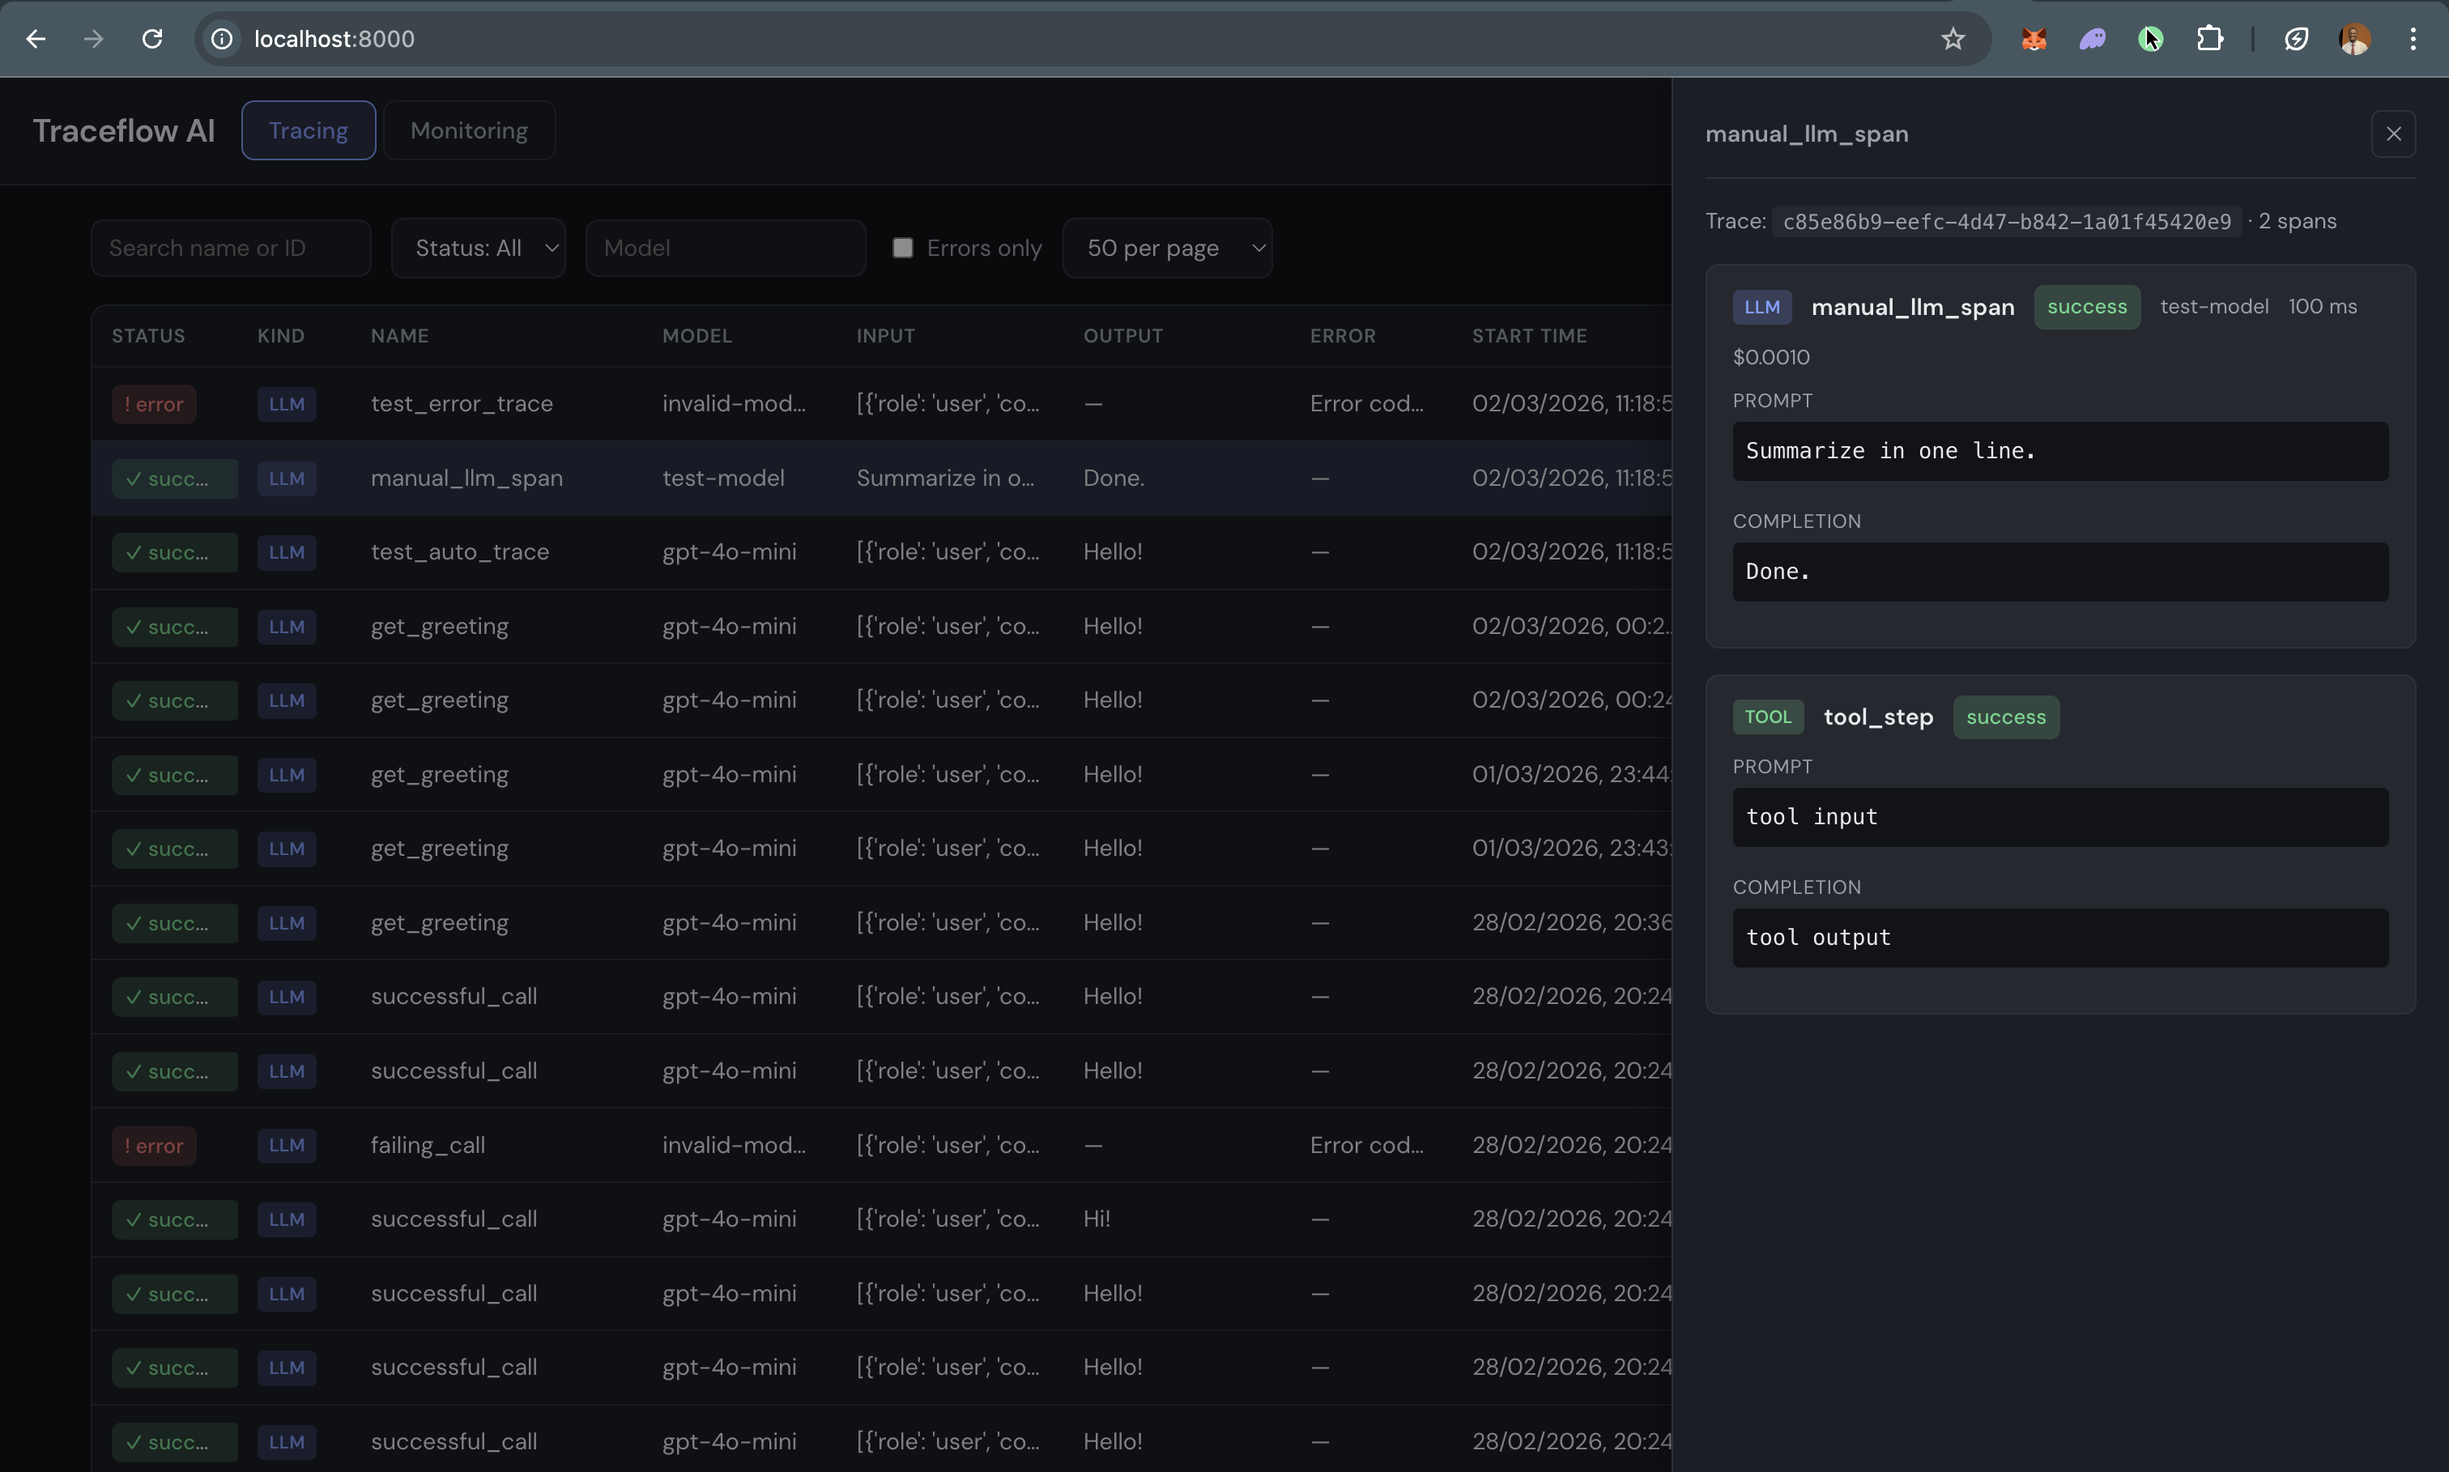
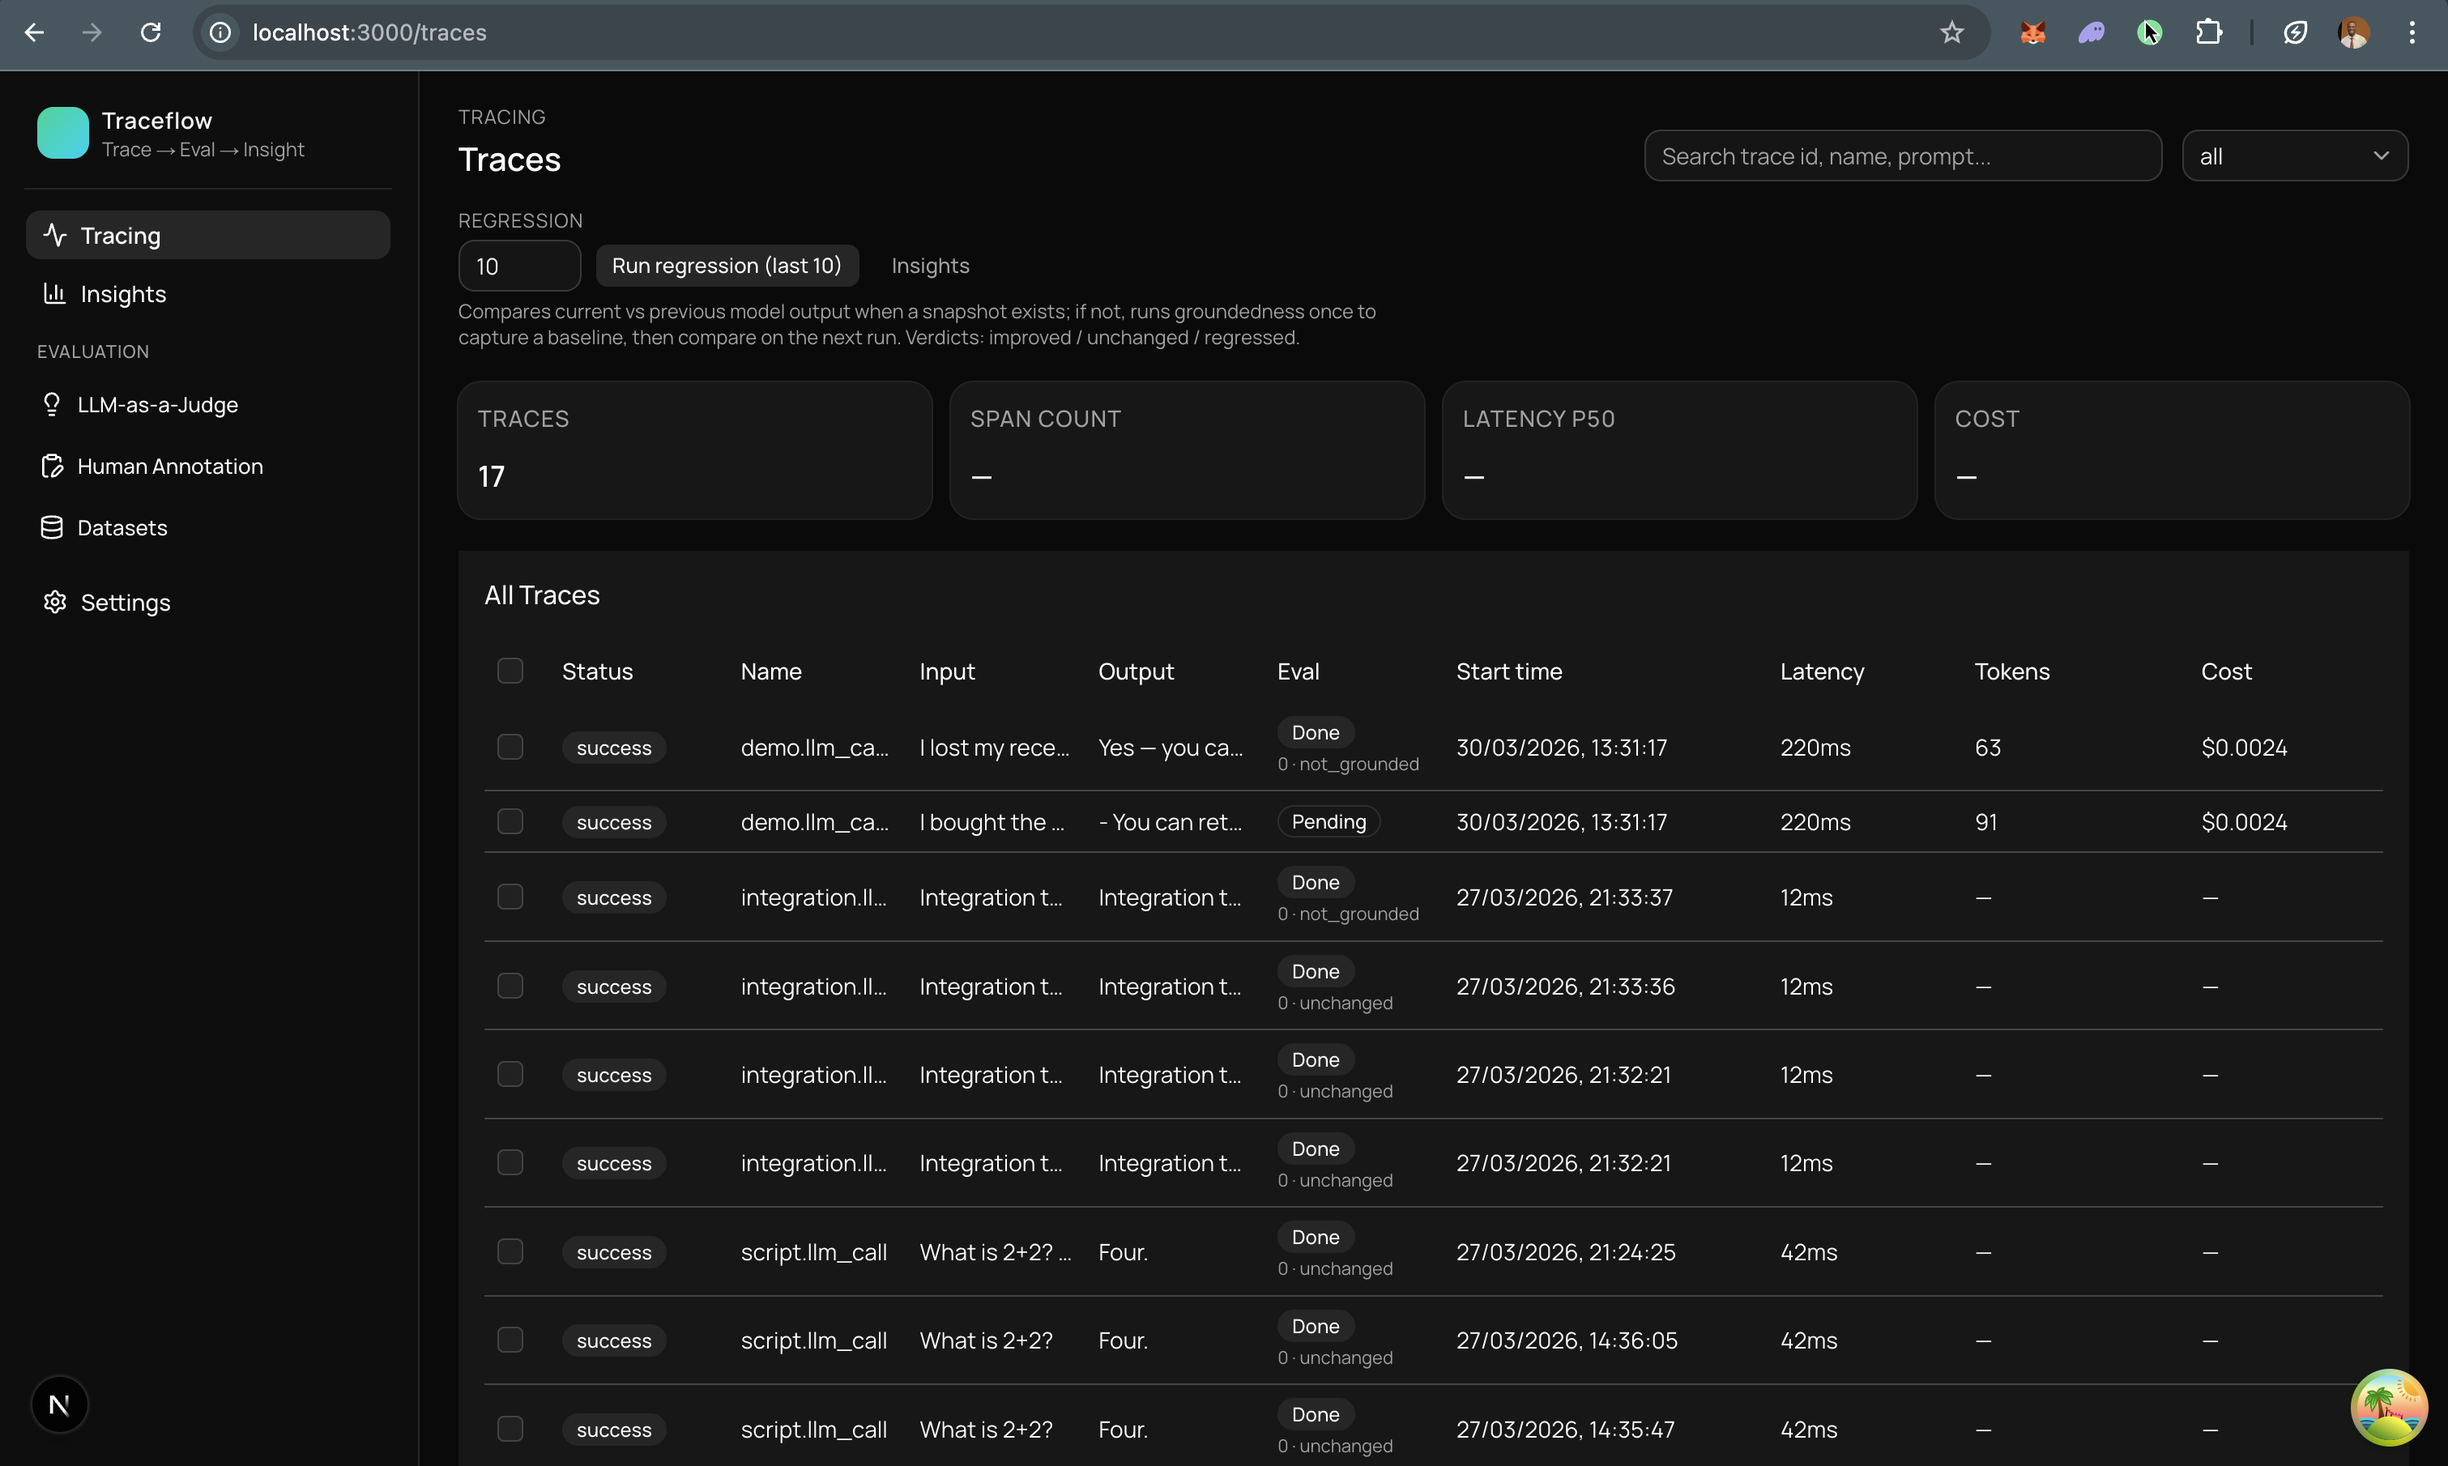
cleaned up readme & added setup guide

diff --git a/README.md b/README.md
@@ -8,14 +8,32 @@
 </p>
 
 <p align="center">
-  AI observability: trace your LLM calls and view them in a dashboard. Built for local and Docker use, with SQLite so you can run everything without a separate database.
+  AI observability + evals: ingest OTLP traces for LLM calls, run LLM-as-a-judge evaluations, and ship a regression workflow that answers “did we get better or worse?” across recent traces.
 </p>
 
 ---
 
-- **SDK** — Instrument your app with one line; captures prompt, completion, tokens, cost, latency, and caller name. Sends traces to your dashboard.
-- **Dashboard** — Trace table (resizable columns, filters), monitoring charts (count, cost, error rate, latency), and a detail panel per trace.
-- **Local-first** — No ClickHouse or Postgres required. SQLite + optional Docker.
+## What this repo is
+
+Traceflow is a local-first stack for **LLM tracing and quality**:
+
+- **Trace ingest (OTLP/HTTP)**: send OpenTelemetry traces for LLM calls (prompt, completion, latency, tokens, cost, status).
+- **Dashboard (Next.js)**: browse traces/spans, inspect inputs/outputs/context, track spend, and run evals from the UI.
+- **LLM-as-a-judge evals**: run **groundedness** scoring against retrieved context (question + context + response → score/label/reasoning).
+- **Regression**: pick the last \(N\) traces, re-run evals, compare against the previous snapshot, and roll up a batch summary (improved/regressed/unchanged).
+
+## Why it’s useful
+
+- **Catch quality drift** before it hits users (regressions/improvements over time).
+- **Debug faster** with full trace context (inputs, outputs, retrieval context, latency, cost).
+- **Production-shaped, demo-friendly**: one docker compose brings up API, UI, Postgres, Redis, and an async worker.
+
+## Features
+
+- **SDK**: instrument with one line; captures prompt, completion, tokens, cost, latency, and caller name; exports OTLP.
+- **Trace explorer**: table + filters + per-trace detail (spans, attributes, errors).
+- **Evals**: groundedness judge returns structured JSON (score/label/reasoning + improvements).
+- **Regression batches**: last \(N\) traces → compare vs prior → per-trace deltas + human-readable system summary.
 
 ## Installation
 
@@ -25,6 +43,8 @@ pip install traceflow-ai[openai]
 
 ## Quick start
 
+For full local setup (Docker + non-Docker), see [`SETUP.md`](SETUP.md).
+
 **1. Run the dashboard**
 
 Using the image from [Docker Hub](https://hub.docker.com/r/iamkalio/traceflow-dashboard):
@@ -33,7 +53,7 @@ Using the image from [Docker Hub](https://hub.docker.com/r/iamkalio/traceflow-da
 docker run -p 8000:8000 iamkalio/traceflow-dashboard
 ```
 
-Open **http://localhost:8000**. The dashboard (API + UI) receives traces from the SDK and shows them in a simple UI (traces, spans, cost, latency). Backend is FastAPI with SQLite; no external database.
+Open **http://localhost:8000**. The dashboard (API + UI) receives traces from the SDK and shows them in a simple UI (traces, spans, cost, latency).
 
 **2. In your app**
 
@@ -56,7 +76,7 @@ client = OpenAI()
 docker compose up --build
 ```
 
-This starts **Postgres**, **Redis**, the **API** (`:8000`), and a **worker** that processes eval jobs. For **groundedness** evals to finish, all four must be running: the API stores traces and enqueues work; the worker reads from Redis, loads spans from Postgres, and writes `eval_results` (set `OPENAI_API_KEY` in `.env.docker` next to `docker-compose.yml`, or export it before `docker compose up`).
+This starts **Postgres**, **Redis**, the **API** (`:8000`), the **UI**, and a **worker** that processes eval jobs. For evals/regression to finish, all four must be running: the API stores traces and enqueues work; the worker reads from Redis, loads spans from Postgres, and writes eval results (set `OPENAI_API_KEY` in `.env.docker` next to `docker-compose.yml`, or export it before `docker compose up`).
 
 Or run the backend locally: `cd src && pip install -r requirements.txt && uvicorn main:app --reload --port 8000` — then start Redis, run `python3 -m traceflow_jobs.worker` with the same `DATABASE_URL` / `REDIS_URL` / `OPENAI_API_KEY` as the API.
 
@@ -67,17 +87,20 @@ Or run the backend locally: `cd src && pip install -r requirements.txt && uvicor
 | Part        | Description                    |
 | ----------- | ------------------------------ |
 | `sdk/`      | **traceflow-ai** — PyPI package |
-| `src/`      | FastAPI + SQLite (API + serves UI) |
-| `app/`      | Dashboard static assets (HTML/CSS/JS) |
+| `src/`      | FastAPI API + worker + OTLP ingest (Postgres + Redis) |
+| `app/`      | Dashboard (Next.js) |
 | `example/`  | Example app using the SDK      |
-| `docs/`     | Specs, roadmap, architecture   |
 
 ---
 
-Docs: [sdk/README.md](sdk/README.md) · [docs/](docs/)
-
 ## Dashboard
 
-<p align="center">
-  <img src="assets/dashboard.png" alt="Traceflow dashboard" width="800">
-</p>
+![Traceflow dashboard](assets/dashboard.png)
+
+## Trace details
+
+![Trace details](assets/trace-details.png)
+
+## LLM-as-a-judge
+
+![LLM-as-a-judge](assets/llm-as-a-judge.png)

diff --git a/SETUP.md b/SETUP.md
@@ -1,0 +1,98 @@
+# Local setup (developer)
+
+This repo has three moving parts:
+
+- **API** (FastAPI): OTLP ingest + REST endpoints
+- **Worker** (RQ): runs eval jobs (groundedness + regression compare)
+- **UI** (Next.js): dashboard
+
+You can run everything with Docker Compose (recommended) or run services locally.
+
+## Option A — Docker Compose (recommended)
+
+1. Create an env file for Docker.
+
+Copy `.env.docker.example` → `.env.docker` if you have it, or create `.env.docker` next to `docker-compose.yml` with at least:
+
+```bash
+OPENAI_API_KEY=sk-...
+```
+
+2. Start the stack.
+
+```bash
+docker compose up --build
+```
+
+3. Open the UI.
+
+- **Dashboard**: `http://localhost:3000`
+- **API**: `http://localhost:8000`
+
+## Option B — Run locally (no Docker)
+
+You still need **Postgres** + **Redis** running somewhere (local services or containers).
+
+### 1) Start Postgres + Redis
+
+If you want to use containers just for infra:
+
+```bash
+docker compose up -d postgres redis
+```
+
+### 2) Backend API
+
+From repo root:
+
+```bash
+cd src
+python3 -m venv .venv
+source .venv/bin/activate
+pip install -r requirements.txt
+
+export DATABASE_URL="postgresql+psycopg://postgres:postgres@localhost:5432/traceflow"
+export REDIS_URL="redis://localhost:6379/0"
+
+uvicorn main:app --reload --port 8000
+```
+
+### 3) Worker (eval jobs)
+
+In a second terminal (same venv):
+
+```bash
+cd src
+source .venv/bin/activate
+
+export DATABASE_URL="postgresql+psycopg://postgres:postgres@localhost:5432/traceflow"
+export REDIS_URL="redis://localhost:6379/0"
+export OPENAI_API_KEY="sk-..."
+
+python3 -m traceflow_jobs.worker
+```
+
+### 4) UI (Next.js)
+
+In a third terminal:
+
+```bash
+cd app
+pnpm install
+pnpm run dev
+```
+
+Open `http://localhost:3000`.
+
+## Quick demo data (two traces)
+
+Post two realistic demo traces (OTLP protobuf) to the ingest endpoint:
+
+```bash
+cd src
+pip install httpx opentelemetry-proto
+BASE_URL=http://127.0.0.1:8000 python3 post_demo_otlp.py
+```
+
+Then go to **Traces** in the UI and run the **groundedness** eval for either trace.
+
